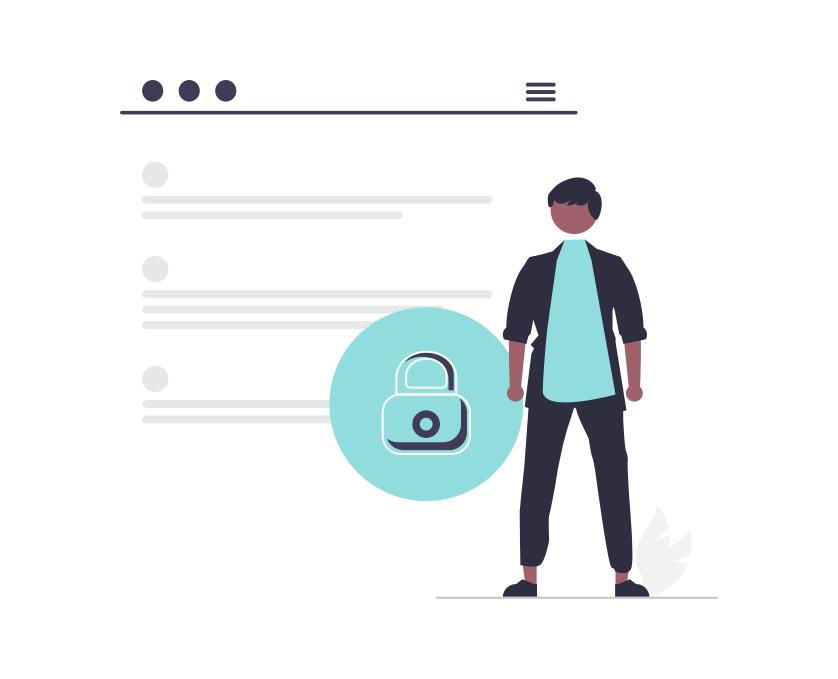
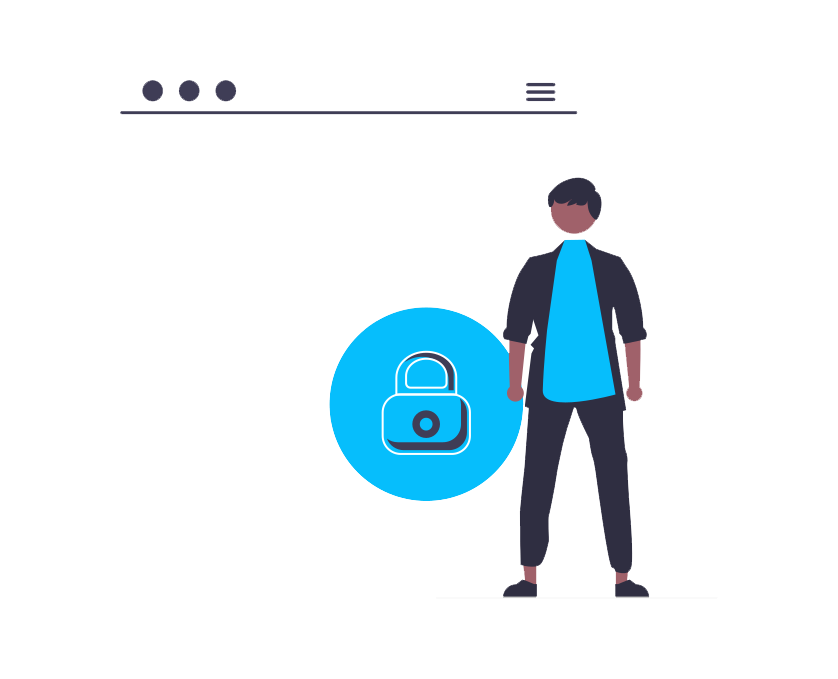
Agregue los beneficios

Changed region(s): [[0.1551, 0.3402, 0.7757, 0.7423], [0.1551, 0.2474, 0.5895, 0.3402], [0.1551, 0.1237, 0.6826, 0.1856]]

diff --git a/sergio.html b/sergio.html
@@ -49,10 +49,10 @@
 
                             <div class="beneficio">
                                  <div class="imagen">
-                                     <img src="img/whatsapp.png" alt="">
+                                     <img src="img/domain.png" alt="">
                                  </div>
                                  <p>
-                                     Certificado SSL2                
+                                     Dominio web                
                                  </p>
                             </div>
 
@@ -68,37 +68,37 @@
 
                             <div class="beneficio">
                                  <div class="imagen">
-                                     <img src="img/whatsapp.png" alt="">
+                                     <img src="img/webPage.png" alt="">
                                  </div>
                                  <p>
-                                     Certificado SSL4                
+                                     Multiplataforma              
                                  </p>
                             </div>
 
                             <div class="beneficio">
                                  <div class="imagen">
-                                     <img src="img/whatsapp.png" alt="">
+                                     <img src="img/server.png" alt="">
                                  </div>
                                  <p>
-                                     Certificado SSL5              
+                                     Despliegue              
                                  </p>
                             </div>
 
                             <div class="beneficio">
                                 <div class="imagen">
-                                    <img src="img/whatsapp.png" alt="">
+                                    <img src="img/personal.png" alt="">
                                 </div>
                                 <p>
-                                    Certificado SSL6              
+                                    Sitio a la medida             
                                 </p>
                            </div>
 
                            <div class="beneficio">
                                 <div class="imagen">
-                                    <img src="img/whatsapp.png" alt="">
+                                    <img src="img/team.png" alt="">
                                 </div>
                                 <p>
-                                    Certificado SSL7              
+                                    Soporte y asesorias             
                                 </p>
                         </div>
 

diff --git a/css/estilo.css b/css/estilo.css
@@ -67,8 +67,7 @@ body{
 
 .beneficio{
     background: white;
-    -webkit-box-shadow: 5px 5px 12px -4px rgba(0,0,0,0.14); 
-box-shadow: 5px 5px 12px -4px rgba(0,0,0,0.14);
+    box-shadow: 0 0 30px 0 rgb(66 1 131 / 14%);
     width: 200px;
     height: 150px !important;
     border-radius: 10px;
@@ -81,9 +80,9 @@ box-shadow: 5px 5px 12px -4px rgba(0,0,0,0.14);
 .beneficio .imagen{
     width: 60%;
     height: 60%;
-    background: rgb(223, 190, 241);
-    -webkit-box-shadow: -4px -4px 12px -6px rgba(0,0,0,0.48); 
-box-shadow: -4px -4px 12px -6px rgba(0,0,0,0.48);
+    /* background: rgb(223, 190, 241); */
+    background: #7397db;
+    box-shadow: 0 0 30px 0 rgb(66 1 131 / 7%);
     border-radius: 10px;
     display: inline-flex;
     flex-direction: column;
@@ -105,6 +104,7 @@ box-shadow: -4px -4px 12px -6px rgba(0,0,0,0.48);
     width: 80%;
     padding-top: 35%;
     font-size: 19px;
+    color: #221f30;
     text-align: center;
 }
 
